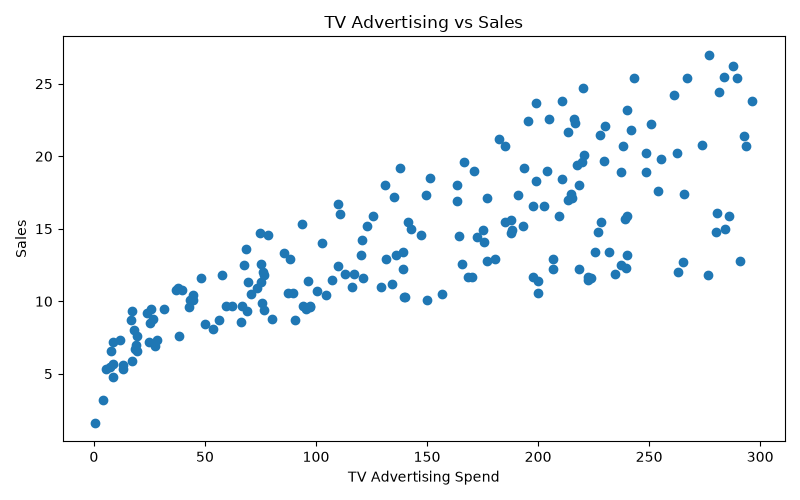
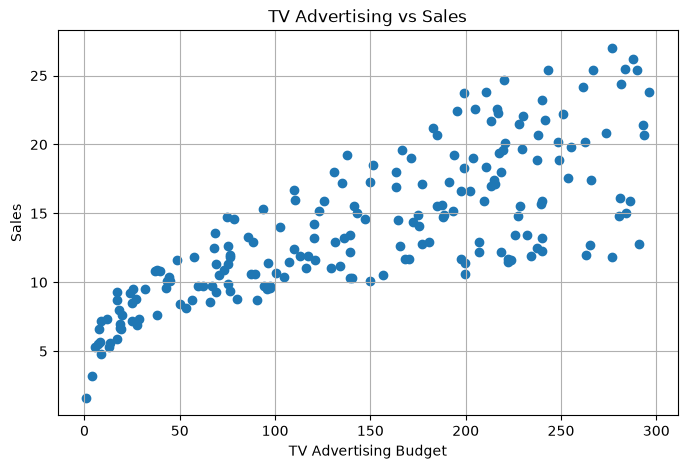
Add Sales Prediction project

diff --git a/app.py b/app.py
@@ -3,6 +3,10 @@ import streamlit as st
 import pandas as pd
 import joblib
 import os
+import matplotlib.pyplot as plt
+
+from sklearn.model_selection import train_test_split
+from sklearn.linear_model import LinearRegression
 
 # Page settings
 st.set_page_config(
@@ -11,21 +15,36 @@ st.set_page_config(
     layout="centered"
 )
 
-# Load saved model
+# File paths
 MODEL_PATH = "sales_prediction_model.pkl"
+DATA_PATH = "Advertising.csv"
 
+# App heading
 st.title("📊 Sales Prediction App")
 st.write("Predict product sales using advertising spending.")
 
+# Check required files
 if not os.path.exists(MODEL_PATH):
-    st.error("Model file not found. Please run python app.py first to train and save the model.")
+    st.error("Model file not found: sales_prediction_model.pkl")
     st.stop()
 
+if not os.path.exists(DATA_PATH):
+    st.error("Dataset file not found: Advertising.csv")
+    st.stop()
+
+# Load trained model
 model = joblib.load(MODEL_PATH)
 
+# Load dataset
+df = pd.read_csv(DATA_PATH)
+
+# Remove unnecessary ID column
+if "Unnamed: 0" in df.columns:
+    df = df.drop(columns=["Unnamed: 0"])
+
+# Advertising budget inputs
 st.subheader("Enter Advertising Budget")
 
-# User inputs
 tv = st.number_input(
     "TV Advertising Budget",
     min_value=0.0,
@@ -50,7 +69,7 @@ newspaper = st.number_input(
     step=5.0
 )
 
-# Predict button
+# Predict sales
 if st.button("Predict Sales"):
     input_data = pd.DataFrame(
         [[tv, radio, newspaper]],
@@ -66,5 +85,84 @@ if st.button("Predict Sales"):
         "not a guarantee of actual sales."
     )
 
+# ---------------------------------
+# SAVE FOUR GRAPHS WITHOUT DISPLAYING
+# ---------------------------------
+
+# Graph 1: TV Advertising vs Sales
+fig1, ax1 = plt.subplots(figsize=(8, 5))
+ax1.scatter(df["TV"], df["Sales"])
+ax1.set_xlabel("TV Advertising Budget")
+ax1.set_ylabel("Sales")
+ax1.set_title("TV Advertising vs Sales")
+ax1.grid(True)
+
+fig1.savefig("tv_vs_sales.png", bbox_inches="tight")
+plt.close(fig1)
+
+# Graph 2: Radio Advertising vs Sales
+fig2, ax2 = plt.subplots(figsize=(8, 5))
+ax2.scatter(df["Radio"], df["Sales"])
+ax2.set_xlabel("Radio Advertising Budget")
+ax2.set_ylabel("Sales")
+ax2.set_title("Radio Advertising vs Sales")
+ax2.grid(True)
+
+fig2.savefig("radio_vs_sales.png", bbox_inches="tight")
+plt.close(fig2)
+
+# Graph 3: Newspaper Advertising vs Sales
+fig3, ax3 = plt.subplots(figsize=(8, 5))
+ax3.scatter(df["Newspaper"], df["Sales"])
+ax3.set_xlabel("Newspaper Advertising Budget")
+ax3.set_ylabel("Sales")
+ax3.set_title("Newspaper Advertising vs Sales")
+ax3.grid(True)
+
+fig3.savefig("newspaper_vs_sales.png", bbox_inches="tight")
+plt.close(fig3)
+
+# Graph 4: Actual vs Predicted Sales
+X = df[["TV", "Radio", "Newspaper"]]
+y = df["Sales"]
+
+X_train, X_test, y_train, y_test = train_test_split(
+    X,
+    y,
+    test_size=0.2,
+    random_state=42
+)
+
+# Train a separate model for the evaluation graph
+evaluation_model = LinearRegression()
+evaluation_model.fit(X_train, y_train)
+
+y_pred = evaluation_model.predict(X_test)
+
+fig4, ax4 = plt.subplots(figsize=(8, 5))
+ax4.scatter(y_test, y_pred, alpha=0.8)
+
+# Ideal prediction reference line
+min_value = min(y_test.min(), y_pred.min())
+max_value = max(y_test.max(), y_pred.max())
+
+ax4.plot(
+    [min_value, max_value],
+    [min_value, max_value],
+    linestyle="--",
+    color="red",
+    label="Ideal prediction"
+)
+
+ax4.set_xlabel("Actual Sales")
+ax4.set_ylabel("Predicted Sales")
+ax4.set_title("Actual vs Predicted Sales")
+ax4.legend()
+ax4.grid(True)
+
+fig4.savefig("actual_vs_predicted_sales.png", bbox_inches="tight")
+plt.close(fig4)
+
+# Confirmation in the app
 st.divider()
 st.caption("Model: Linear Regression | Dataset: Advertising.csv")
